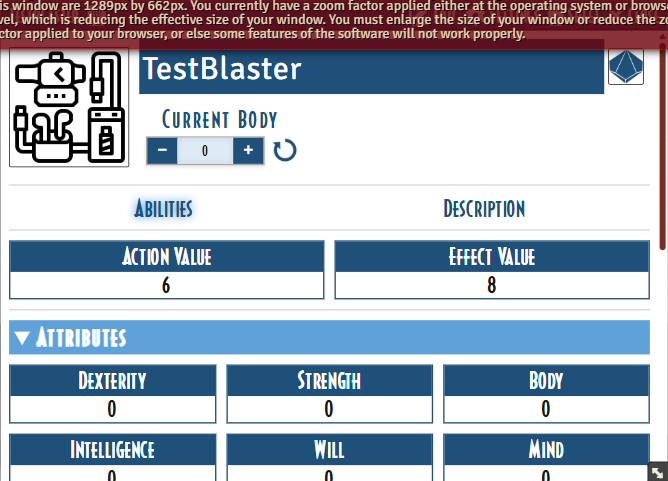
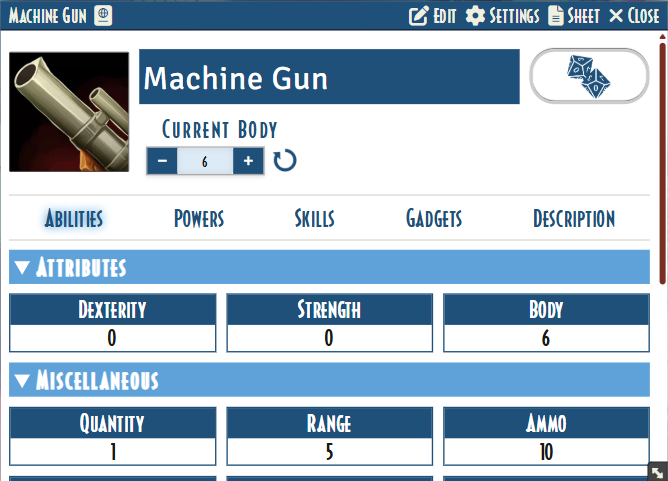
Redesign gadget sheet roll button to match power sheet d10 pattern
Replace custom <a><img> roll button with the standard d10 grid layout
used by power sheets. Fix double-dialog bug by guarding the general
.d10.rollable handler against gadget-roll clicks. Compact the picker
dialog layout and remove unused gadget-roll CSS.

Fixes #13

diff --git a/css/megs.css b/css/megs.css
@@ -358,9 +358,6 @@ details summary.no-arrow {
   /* Item Sheet Subskills Tab
   /*------------------------------------------------------------------------*/
   /*------------------------------------------------------------------------*/
-  /* Gadget Sheet Roll Button
-  /*------------------------------------------------------------------------*/
-  /*------------------------------------------------------------------------*/
   /* Gadget Attribute Editing
   /*------------------------------------------------------------------------*/
   /*------------------------------------------------------------------------*/
@@ -1074,25 +1071,6 @@ details summary.no-arrow {
   justify-content: center;
   align-items: center;
 }
-.megs .gadget-header-name {
-  display: flex;
-  align-items: center;
-  gap: 4px;
-}
-.megs .gadget-header-name h1.charname {
-  flex: 1;
-}
-.megs .gadget-roll-btn {
-  cursor: pointer;
-  flex: 0 0 auto;
-}
-.megs .gadget-roll-btn .gadget-roll-icon {
-  width: 36px;
-  height: 36px;
-}
-.megs .gadget-roll-btn:hover {
-  filter: brightness(1.2);
-}
 .megs .gadget-attribute {
   position: relative;
 }
@@ -1608,12 +1586,22 @@ details summary.no-arrow {
   margin: 0;
 }
 
+.gadget-picker-dialog {
+  padding: 8px 4px;
+}
+.gadget-picker-dialog .gadget-picker-heading {
+  font-weight: bold;
+  font-size: 16px;
+  margin-bottom: 6px;
+  display: block;
+}
+
 .gadget-roll-option {
   display: flex;
   align-items: center;
   gap: 6px;
   cursor: pointer;
-  padding: 4px 0;
+  padding: 3px 0;
 }
 .gadget-roll-option input[type=radio] {
   margin: 0;

diff --git a/src/scss/components/_items.scss b/src/scss/components/_items.scss
@@ -276,34 +276,6 @@ li.directory-item img[src*='assets/images/icons'] {
 }
 
 /*------------------------------------------------------------------------*/
-/* Gadget Sheet Roll Button
-/*------------------------------------------------------------------------*/
-
-.gadget-header-name {
-    display: flex;
-    align-items: center;
-    gap: 4px;
-
-    h1.charname {
-        flex: 1;
-    }
-}
-
-.gadget-roll-btn {
-    cursor: pointer;
-    flex: 0 0 auto;
-
-    .gadget-roll-icon {
-        width: 36px;
-        height: 36px;
-    }
-
-    &:hover {
-        filter: brightness(1.2);
-    }
-}
-
-/*------------------------------------------------------------------------*/
 /* Gadget Attribute Editing
 /*------------------------------------------------------------------------*/
 

diff --git a/src/scss/components/_dialogs.scss b/src/scss/components/_dialogs.scss
@@ -160,12 +160,23 @@
     }
 }
 
+.gadget-picker-dialog {
+    padding: 8px 4px;
+
+    .gadget-picker-heading {
+        font-weight: bold;
+        font-size: 16px;
+        margin-bottom: 6px;
+        display: block;
+    }
+}
+
 .gadget-roll-option {
     display: flex;
     align-items: center;
     gap: 6px;
     cursor: pointer;
-    padding: 4px 0;
+    padding: 3px 0;
 
     input[type='radio'] {
         margin: 0;

diff --git a/CHANGELOG.md b/CHANGELOG.md
@@ -4,6 +4,7 @@
 
 ### Enhancements
 
+- Gadget item sheets now have a d10 roll button in the header that triggers the full gadget roll flow, matching the power sheet visual pattern (issue #13)
 - Gadgets can now be rolled from the actor Gadgets tab for all rollable abilities: explicit AV/EV, child powers, child skills, and attribute pairs (issue #17)
 - Added picker dialog when a gadget has multiple rollable abilities
 - Added "Always Substitute" (italicized) checkbox per gadget attribute in edit mode; italicized attributes substitute for the actor's values when higher
